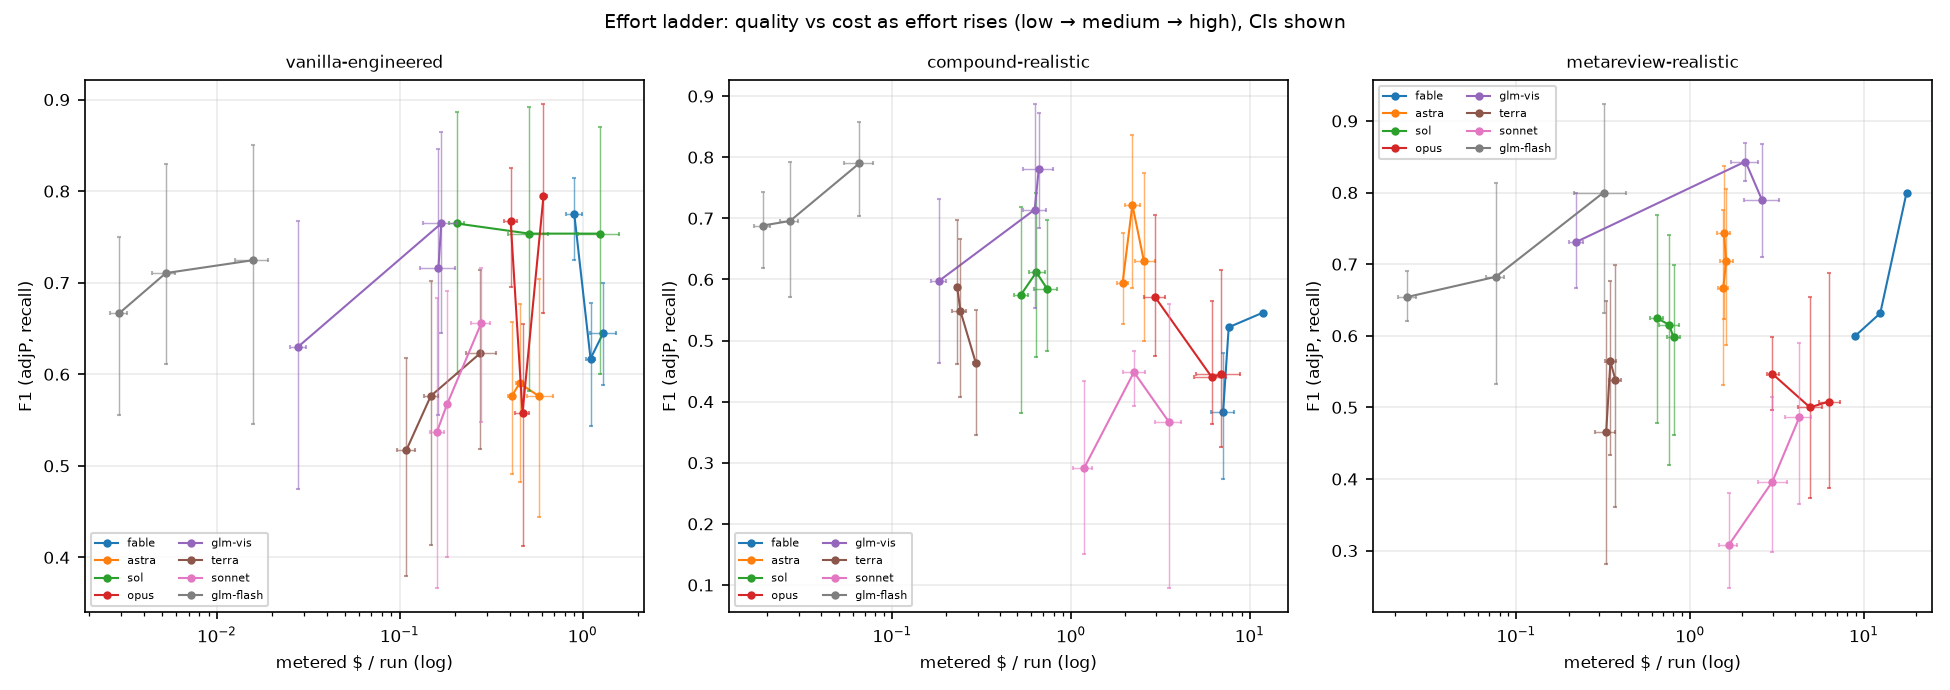
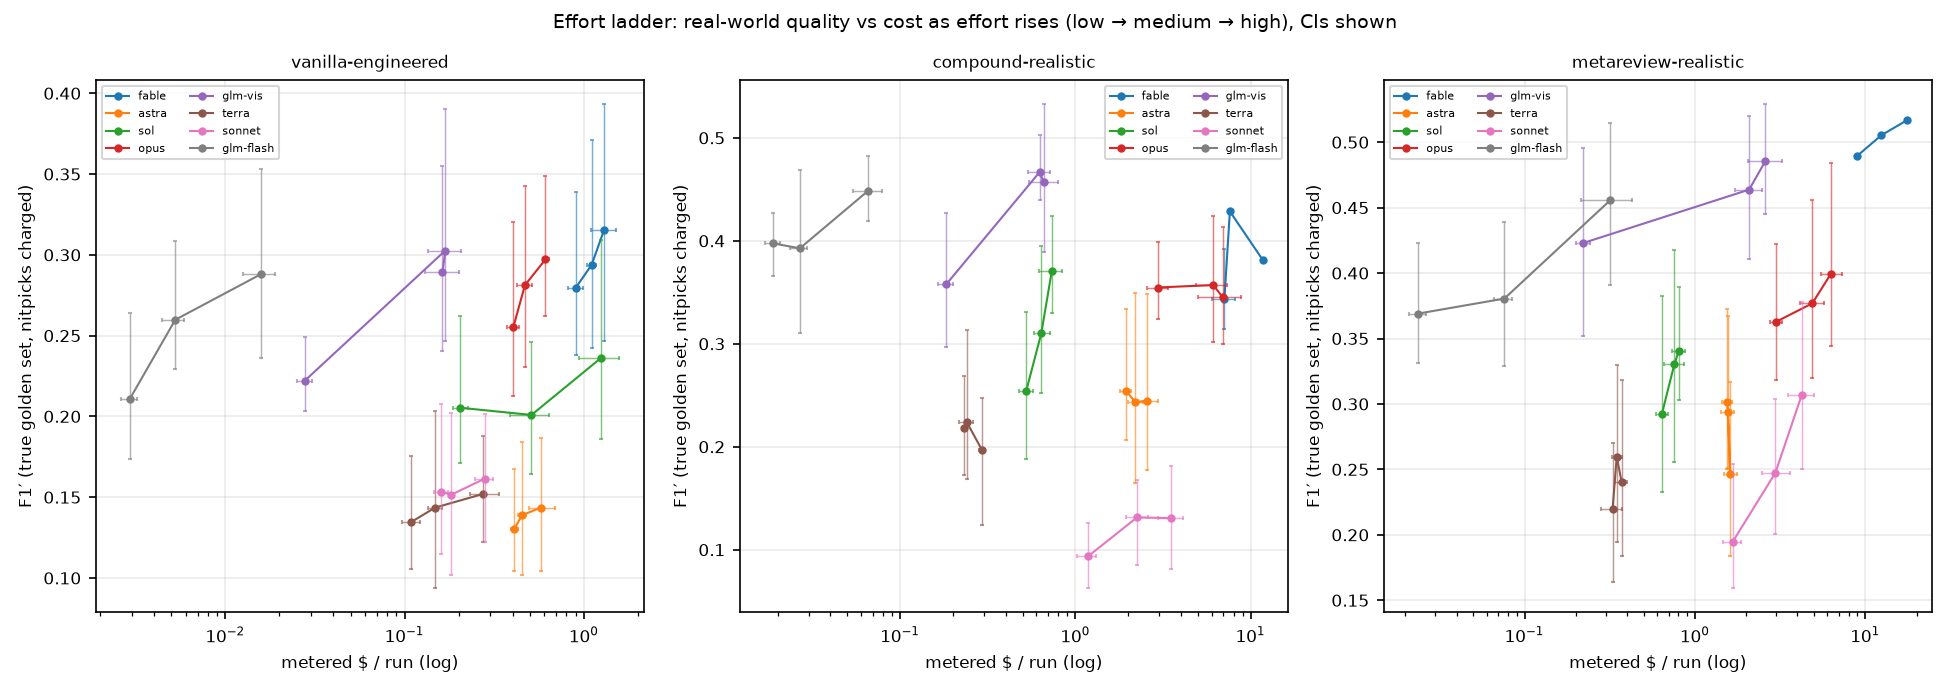
figures: rebuild pareto/efficiency-2x2/effort-ladder on true-golden-set metrics (F1', recall_sem); update report captions

diff --git a/tools/final_report_figures.py b/tools/final_report_figures.py
@@ -14,6 +14,10 @@ import matplotlib.pyplot as plt
 ROOT = os.path.dirname(os.path.dirname(os.path.abspath(__file__)))
 D = json.load(open(f"{ROOT}/analysis/final_report_dataset.json"))
 M = json.load(open(f"{ROOT}/analysis/final_report_metrics.json"))
+SEM = M["expanded_gold_semantic"]["matrix_sem"]
+
+def sem_cell(m, fw, e):
+    return SEM.get(f"{m}|{fw}|{e}")
 FIG = f"{ROOT}/analysis/figures"
 os.makedirs(FIG, exist_ok=True)
 
@@ -40,15 +44,19 @@ def err(ci):
 
 # ---------------------------------------------------------------- 1. Pareto
 fig, axes = plt.subplots(1, 2, figsize=(12, 5), sharey=True)
-for ax, met, xlab in ((axes[0], "F1", "F1 (cluster-bootstrap CI)"),
-                      (axes[1], "F2", "F2 (recall-weighted, CI)")):
+for ax, met, xlab in ((axes[0], "F1_sem", "F1, true golden set (CI)"),
+                      (axes[1], "F1p_sem", "F1\u2032 true golden set, nitpicks charged (CI)")):
     pts = []
     for k, v in M["matrix"].items():
         if v["n_pr"] < 6:
             continue
         m, fw, e = k.split("|")
-        pts.append((v["ci"]["usd_per_real"][0], v["ci"][met][0], m, fw, e,
-                    v["ci"]["usd_per_real"], v["ci"][met]))
+        sc = sem_cell(m, fw, e)
+        if not sc:
+            continue
+        yci = sc["ci"]["F1" if met == "F1_sem" else "F1p"]
+        pts.append((v["ci"]["usd_per_real"][0], yci[0], m, fw, e,
+                    v["ci"]["usd_per_real"], yci))
     pts.sort(key=lambda p: p[0])
     # frontier on the point estimates
     front = []
@@ -70,10 +78,10 @@ for ax, met, xlab in ((axes[0], "F1", "F1 (cluster-bootstrap CI)"),
     ax.set_xscale("log")
     ax.set_xlabel("metered $ per real finding (TP + beyond-gold real), log scale — CI")
     ax.set_ylabel(xlab)
-    ax.set_ylim(0.15, 1.0)
-    if met == "F1":
+    ax.set_ylim(0.0, 0.7)
+    if met == "F1_sem":
         ax.legend(fontsize=6)
-fig.suptitle("Cost/quality frontier — 8 models × 3 frameworks × 3 efforts × same 6 severity-top PRs (top-6)", fontsize=9)
+fig.suptitle("Cost/quality frontier, true golden set (42 goldens + 359 real bugs) — top-6 cells", fontsize=9)
 fig.tight_layout()
 fig.savefig(f"{FIG}/fig_pareto_frontier.png"); plt.close(fig)
 
@@ -145,11 +153,13 @@ for ax, fw in zip(axes, FRAMEWORKS):
         xs, ys, xlo, xhi, ylo, yhi = [], [], [], [], [], []
         for e in EFFORTS:
             v = cell(m, fw, e)
-            if v is None:
+            sc = sem_cell(m, fw, e)
+            if v is None or not sc:
                 continue
-            xs.append(v["ci"]["cost_run"][0]); ys.append(v["ci"]["F1"][0])
+            yci = sc["ci"]["F1p"]
+            xs.append(v["ci"]["cost_run"][0]); ys.append(yci[0])
             xlo.append(v["ci"]["cost_run"][1]); xhi.append(v["ci"]["cost_run"][2])
-            ylo.append(v["ci"]["F1"][1]); yhi.append(v["ci"]["F1"][2])
+            ylo.append(yci[1]); yhi.append(yci[2])
         if not xs:
             continue
         ax.plot(xs, ys, "-o", color=MCOL[m], ms=3, lw=1, label=M_SHORT[m])
@@ -158,10 +168,10 @@ for ax, fw in zip(axes, FRAMEWORKS):
                         color=MCOL[m], lw=0.7, capsize=1, alpha=0.6)
     ax.set_xscale("log")
     ax.set_xlabel("metered $ / run (log)")
-    ax.set_ylabel("F1 (adjP, recall)")
+    ax.set_ylabel("F1\u2032 (true golden set, nitpicks charged)")
     ax.set_title(fw, fontsize=8)
     ax.legend(fontsize=5.5, ncol=2)
-fig.suptitle("Effort ladder: quality vs cost as effort rises (low → medium → high), CIs shown", fontsize=9)
+fig.suptitle("Effort ladder: real-world quality vs cost as effort rises (low → medium → high), CIs shown", fontsize=9)
 fig.tight_layout()
 fig.savefig(f"{FIG}/fig_effort_ladder.png"); plt.close(fig)
 
@@ -265,59 +275,82 @@ def cluster_hull(ax, pts, color, label):
     ax.annotate(label, (cx, cy), xytext=(4, -9), textcoords="offset points",
                 fontsize=6, weight="bold", color=color, zorder=6)
 
-# (a) price/performance: $/run vs F1, model clusters shaded
+# (a) price/performance: $/run vs F1' (true golden set), model clusters shaded
 ax = axes[0][0]
 for m, fw, e, v in pts:
-    c, f = v["ci"]["cost_run"], v["ci"]["F1"]
+    sc = sem_cell(m, fw, e)
+    if not sc:
+        continue
+    c, f = v["ci"]["cost_run"], sc["ci"]["F1p"]
     scatter_ci(ax, c[0], c[1], c[2], f[0], f[1], f[2], m, fw, e)
 clusters = {}
 for m, fw, e, v in pts:
-    clusters.setdefault(m, []).append((v["ci"]["cost_run"][0], v["ci"]["F1"][0]))
+    sc = sem_cell(m, fw, e)
+    if not sc:
+        continue
+    clusters.setdefault(m, []).append((v["ci"]["cost_run"][0], sc["F1p"]))
 for m, cpts in clusters.items():
     cluster_hull(ax, cpts, MCOL[m], M_SHORT[m])
-ax.set_xlabel("metered $ / run (log)"); ax.set_ylabel("F1 [CI]")
-ax.set_title("(a) price/performance: $ per PR review vs F1 — model clusters shaded", fontsize=9)
+ax.set_xlabel("metered $ / run (log)"); ax.set_ylabel("F1\u2032 (true golden set) [CI]")
+ax.set_title("(a) price/performance: $ per PR review vs F1\u2032 — model clusters shaded", fontsize=9)
 
-# (b) F1 per dollar
+# (b) F1' per dollar (true golden set; approx CI = F1' CI / cost point)
 ax = axes[0][1]
-rows = sorted(pts, key=lambda p: -p[3]["ci_f1_per_dollar"][0])[:20]
-labels = [f"{M_SHORT[m]}·{FW_SHORT[fw]}·{e[:3]}" for m, fw, e, v in rows]
-vals = [v["ci_f1_per_dollar"][0] for m, fw, e, v in rows]
-los = [v["ci_f1_per_dollar"][0] - v["ci_f1_per_dollar"][1] for m, fw, e, v in rows]
-his = [v["ci_f1_per_dollar"][2] - v["ci_f1_per_dollar"][0] for m, fw, e, v in rows]
-cols = [MCOL[m] for m, fw, e, v in rows]
+rows = []
+for m, fw, e, v in pts:
+    sc = sem_cell(m, fw, e)
+    if not sc:
+        continue
+    rows.append((m, fw, e, sc["F1p"] / v["ci"]["cost_run"][0], sc["ci"]["F1p"], v["ci"]["cost_run"][0]))
+rows.sort(key=lambda r: -r[3])
+rows = rows[:20]
+labels = [f"{M_SHORT[m]}·{FW_SHORT[fw]}·{e[:3]}" for m, fw, e, _, _, _ in rows]
+vals = [r[3] for r in rows]
+los = [r[3] - r[4][1] / r[5] for r in rows]
+his = [r[4][2] / r[5] - r[3] for r in rows]
+cols = [MCOL[r[0]] for r in rows]
 ypos = np.arange(len(rows))[::-1]
 ax.barh(ypos, vals, color=cols, alpha=0.8)
 ax.errorbar(vals, ypos, xerr=[los, his], fmt="none", ecolor="k", lw=0.8, capsize=1)
 ax.set_yticks(ypos); ax.set_yticklabels(labels, fontsize=5.5)
-ax.set_xlabel("F1 per $ per run (paired-ratio bootstrap CI)")
-ax.set_title("(b) F1 per dollar (top 20 cells)", fontsize=9)
+ax.set_xlabel("F1\u2032 per $ per run (approx CI)")
+ax.set_title("(b) F1\u2032 per dollar, true golden set (top 20 cells)", fontsize=9)
 
-# (c) F1 vs wall time, model clusters shaded
+# (c) F1' vs wall time, model clusters shaded
 ax = axes[1][0]
 for m, fw, e, v in pts:
-    w, f = v["ci"]["wall_run"], v["ci"]["F1"]
+    sc = sem_cell(m, fw, e)
+    if not sc:
+        continue
+    w, f = v["ci"]["wall_run"], sc["ci"]["F1p"]
     scatter_ci(ax, w[0], w[1], w[2], f[0], f[1], f[2], m, fw, e)
 clusters = {}
 for m, fw, e, v in pts:
-    clusters.setdefault(m, []).append((v["ci"]["wall_run"][0], v["ci"]["F1"][0]))
+    sc = sem_cell(m, fw, e)
+    if not sc:
+        continue
+    clusters.setdefault(m, []).append((v["ci"]["wall_run"][0], sc["F1p"]))
 for m, cpts in clusters.items():
     cluster_hull(ax, cpts, MCOL[m], M_SHORT[m])
-ax.set_xlabel("wall seconds / run (log)"); ax.set_ylabel("F1 [CI]")
-ax.set_title("(c) F1 vs wall-clock per run — model clusters shaded", fontsize=9)
+ax.set_xlabel("wall seconds / run (log)"); ax.set_ylabel("F1\u2032 (true golden set) [CI]")
+ax.set_title("(c) F1\u2032 vs wall-clock per run — model clusters shaded", fontsize=9)
 for m, c in MCOL.items():
     ax.scatter([], [], color=c, s=6, label=M_SHORT[m])
 ax.legend(fontsize=5, ncol=2, loc="lower right")
 
-# (d) recall vs $/golden TP
+# (d) recall (true golden set) vs $/true bug found
 ax = axes[1][1]
 for m, fw, e, v in pts:
-    c, r = v["ci"]["usd_per_tp"], v["ci"]["recall"]
-    scatter_ci(ax, c[0], c[1], c[2], r[0], r[1], r[2], m, fw, e)
-ax.set_xlabel("metered $ per golden true-positive (log)"); ax.set_ylabel("golden recall [CI]")
-ax.set_title("(d) cost per golden defect vs recall", fontsize=9)
+    sc = sem_cell(m, fw, e)
+    if not sc or not sc["TP_sem"]:
+        continue
+    x = v["ci"]["cost_run"][0] * v["n_pr"] / sc["TP_sem"]
+    r = sc["ci"]["recall_sem"]
+    scatter_ci(ax, x, x * 0.98, x * 1.02, r[0], r[1], r[2], m, fw, e)
+ax.set_xlabel("metered $ per true bug found (log)"); ax.set_ylabel("recall, true golden set [CI]")
+ax.set_title("(d) cost per true bug vs recall (true golden set)", fontsize=9)
 
-fig.suptitle("Efficiency 2×2 — top-6 cells, all points with 95% cluster-bootstrap CIs", fontsize=10)
+fig.suptitle("Efficiency 2×2, true golden set — top-6 cells, 95% cluster-bootstrap CIs", fontsize=10)
 fig.tight_layout()
 fig.savefig(f"{FIG}/fig_efficiency_2x2.png"); plt.close(fig)
 

diff --git a/REPORT_FINAL.md b/REPORT_FINAL.md
@@ -836,22 +836,23 @@ throughput-limited by the gateway** (glm-vis MRV medium 2,282 s [1,458, 3,305]; 
 
 ### 6.5 The efficiency frontier (headline figure)
 
+Both figures below are rebuilt on the **true golden set** (§10b metrics): F1′ (nitpicks
+charged) as the quality axis; a strict-benchmark version of each remains in git history
+(data freeze 2026-09-16).
+
 `analysis/figures/fig_pareto_frontier.png` plots every complete cell as (metered $ per real
-finding = TP + beyond-gold real, log scale) vs F1, both with 95% CIs; the right panel repeats vs
-F2. The Pareto frontier is **entirely GLM cells**: glm-flash van/CE low, glm-flash CE high,
+finding = TP + beyond-gold real, log scale) vs F1 (left) and F1′ (right), both with 95% CIs.
+The Pareto frontier is **entirely GLM cells**: glm-flash van/CE low, glm-flash CE high,
 glm-flash MRV high, glm-vis MRV medium. glm-vis MRV low sits one step off the frontier with the
-best F1-per-dollar among sub-$0.30/run cells; the frontier-model harness cells (opus CE/MRV,
+best F1′-per-dollar among sub-$0.30/run cells; the frontier-model harness cells (opus CE/MRV,
 sonnet CE/MRV, fable CE/MRV-gap cells) are dominated on both axes by the GLM harness cells.
 
 `analysis/figures/fig_efficiency_2x2.png` is the four-panel efficiency view, every point with its
-95% CI: **(a)** price/performance ($ per PR review vs F1 — how much quality a dollar buys *per
-review*), **(b)** F1 per $ (paired-ratio bootstrap; note this panel is dominated by vanilla cells
-because a single cheap call divides a small denominator — it measures cheapness, not review value;
-the harness cells buy recall and beyond-gold breadth with their dollars), **(c)** F1 vs wall-clock
-per run (latency/quality; the low-effort GLM cells sit in the fast/high-F1 corner), and
-**(d)** $ per golden true-positive vs recall (the buyer's panel: what a caught golden defect
-costs, against how many are caught). The recommendation cell (glm-vis · MRV · low) is annotated
-in (a).
+95% CI: **(a)** price/performance ($ per PR review vs F1′ — how much quality a dollar buys *per
+review*), **(b)** F1′ per $ (approx CI = F1′ CI / cost point), **(c)** F1′ vs wall-clock per
+run (latency/quality; the low-effort GLM cells sit in the fast/high-F1′ corner), and
+**(d)** $ per true bug found vs recall (true golden set; the buyer's panel: what a caught real
+bug costs, against how many are caught).
 
 **Interactive versions of all main figures** — single-file HTML, no server needed:
 `analysis/figures/interactive_dashboard.html` (open in any browser; built by
